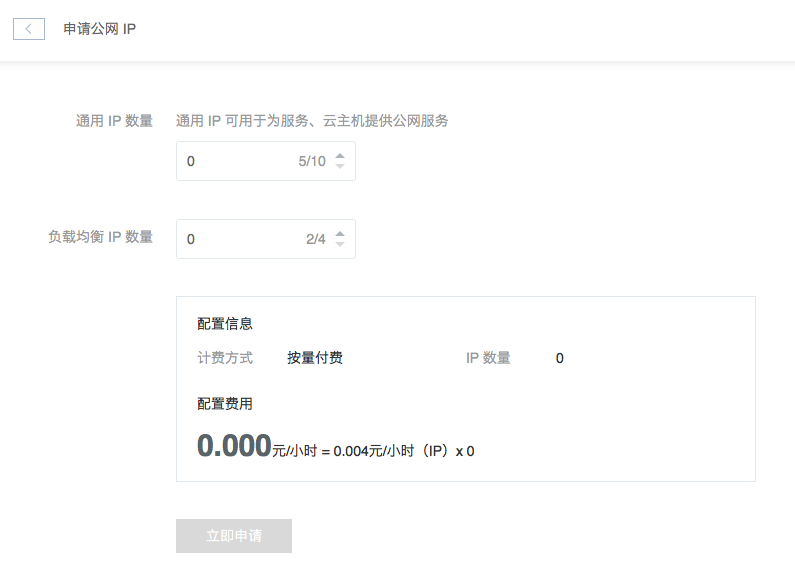
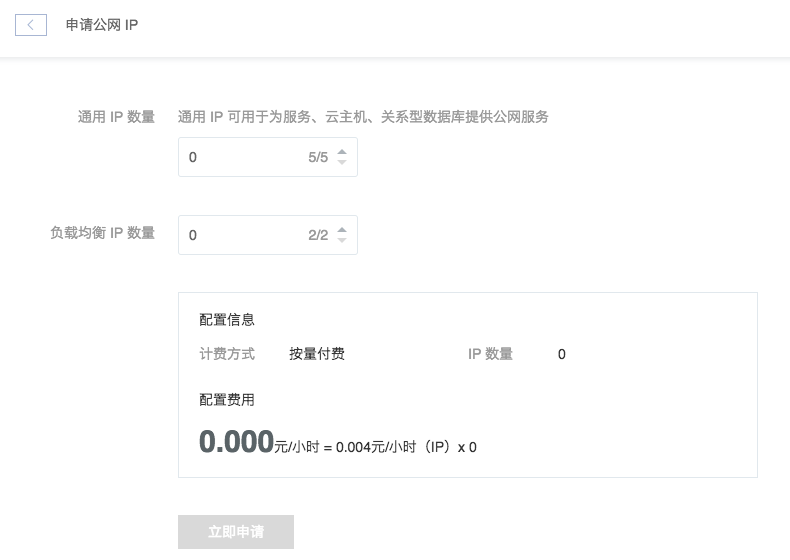
Feature:RDS支持 IP 管理

diff --git a/平台服务/IP 管理/使用指南/绑定公网IP/公网IP绑定关系型数据库.md b/平台服务/IP 管理/使用指南/绑定公网IP/公网IP绑定关系型数据库.md
@@ -1,0 +1,14 @@
+# 绑定关系型数据库
+
+<span>Note:</span><div class="alertContent">出于安全考虑不建议开启公网，可以通过 [蜂巢 OpenVPN](../md.html#!容器服务/服务管理/使用技巧/如何使用蜂巢 OpenVPN.md)，使用内网 IP 连接。</div>
+
+## 关系型数据库创建完成后绑定
+
+1. 登录 [控制台](https://c.163.com/dashboard#/m/rds/)，点击「关系型数据库」标签；
+
+2. 定位到目标实例，点击实例名称，进入数据库实例详情页；
+
+3. 在「**公网 IP**」处绑定公网 IP：
+
+![](../../image/IP管理使用指南-绑定RDS.png)
+

diff --git a/平台服务/IP 管理/使用指南/申请公网IP.md b/平台服务/IP 管理/使用指南/申请公网IP.md
@@ -7,7 +7,7 @@
 
 
 <span>Note:</span>
-也可以在创建有状态服务/云主机/负载均衡时申请新 IP（随机分配）；
-通用 IP用于绑定服务、云主机，负载均衡 IP 用于绑定负载均衡实例；
+也可以在创建有状态服务/云主机/关系型数据库/负载均衡时申请新 IP（随机分配）；
+通用 IP用于绑定服务、云主机、关系型数据库，负载均衡 IP 用于绑定负载均衡实例；
 申请成功即开始计费，无论是否绑定服务/云主机/负载均衡；
 如需增加配额请提交工单联系我们。

diff --git a/平台服务/IP 管理/navigation.md b/平台服务/IP 管理/navigation.md
@@ -11,6 +11,7 @@
 
 	* [绑定服务](平台服务/IP 管理/使用指南/绑定公网IP/公网IP绑定服务.md)
 	* [绑定云主机](平台服务/IP 管理/使用指南/绑定公网IP/公网IP绑定云主机.md)
+	* [绑定关系型数据库](平台服务/IP 管理/使用指南/绑定公网IP/公网IP绑定关系型数据库.md)
 	* [绑定负载均衡](平台服务/IP 管理/使用指南/绑定公网IP/公网IP绑定负载均衡.md)
 * [释放公网 IP](平台服务/IP 管理/使用指南/释放公网IP.md)
 

diff --git a/平台服务/IP 管理/使用指南/绑定公网IP/公网IP绑定云主机.md b/平台服务/IP 管理/使用指南/绑定公网IP/公网IP绑定云主机.md
@@ -2,7 +2,7 @@
 
 ## 云主机创建完成后绑定
 
-1. 登录 [控制台](https://c.163.com/dashboard#/m/ingress/)，定位到「云主机」标签；
+1. 登录 [控制台](https://c.163.com/dashboard#/m/win/)，点击「云主机」标签；
 
 2. 定位到目标实例，点击实例名称，进入云主机详情页；
 
